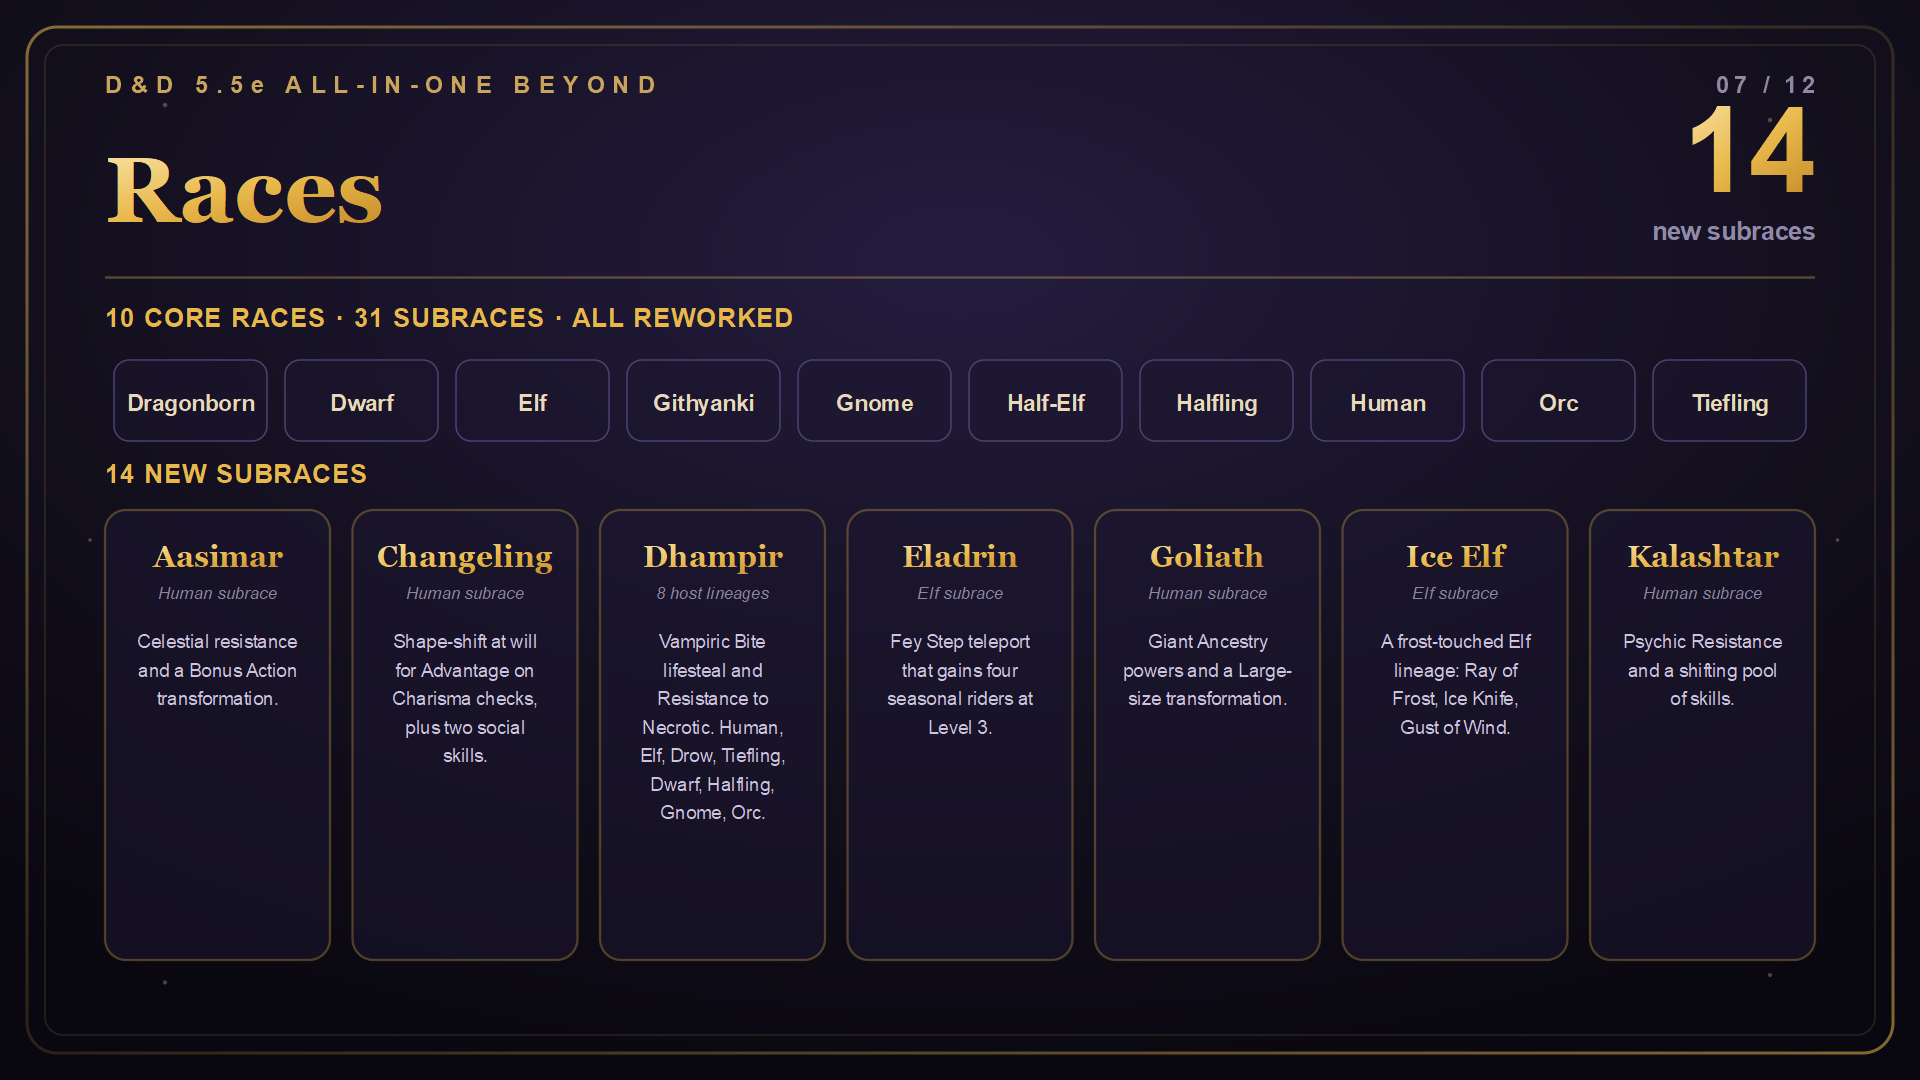
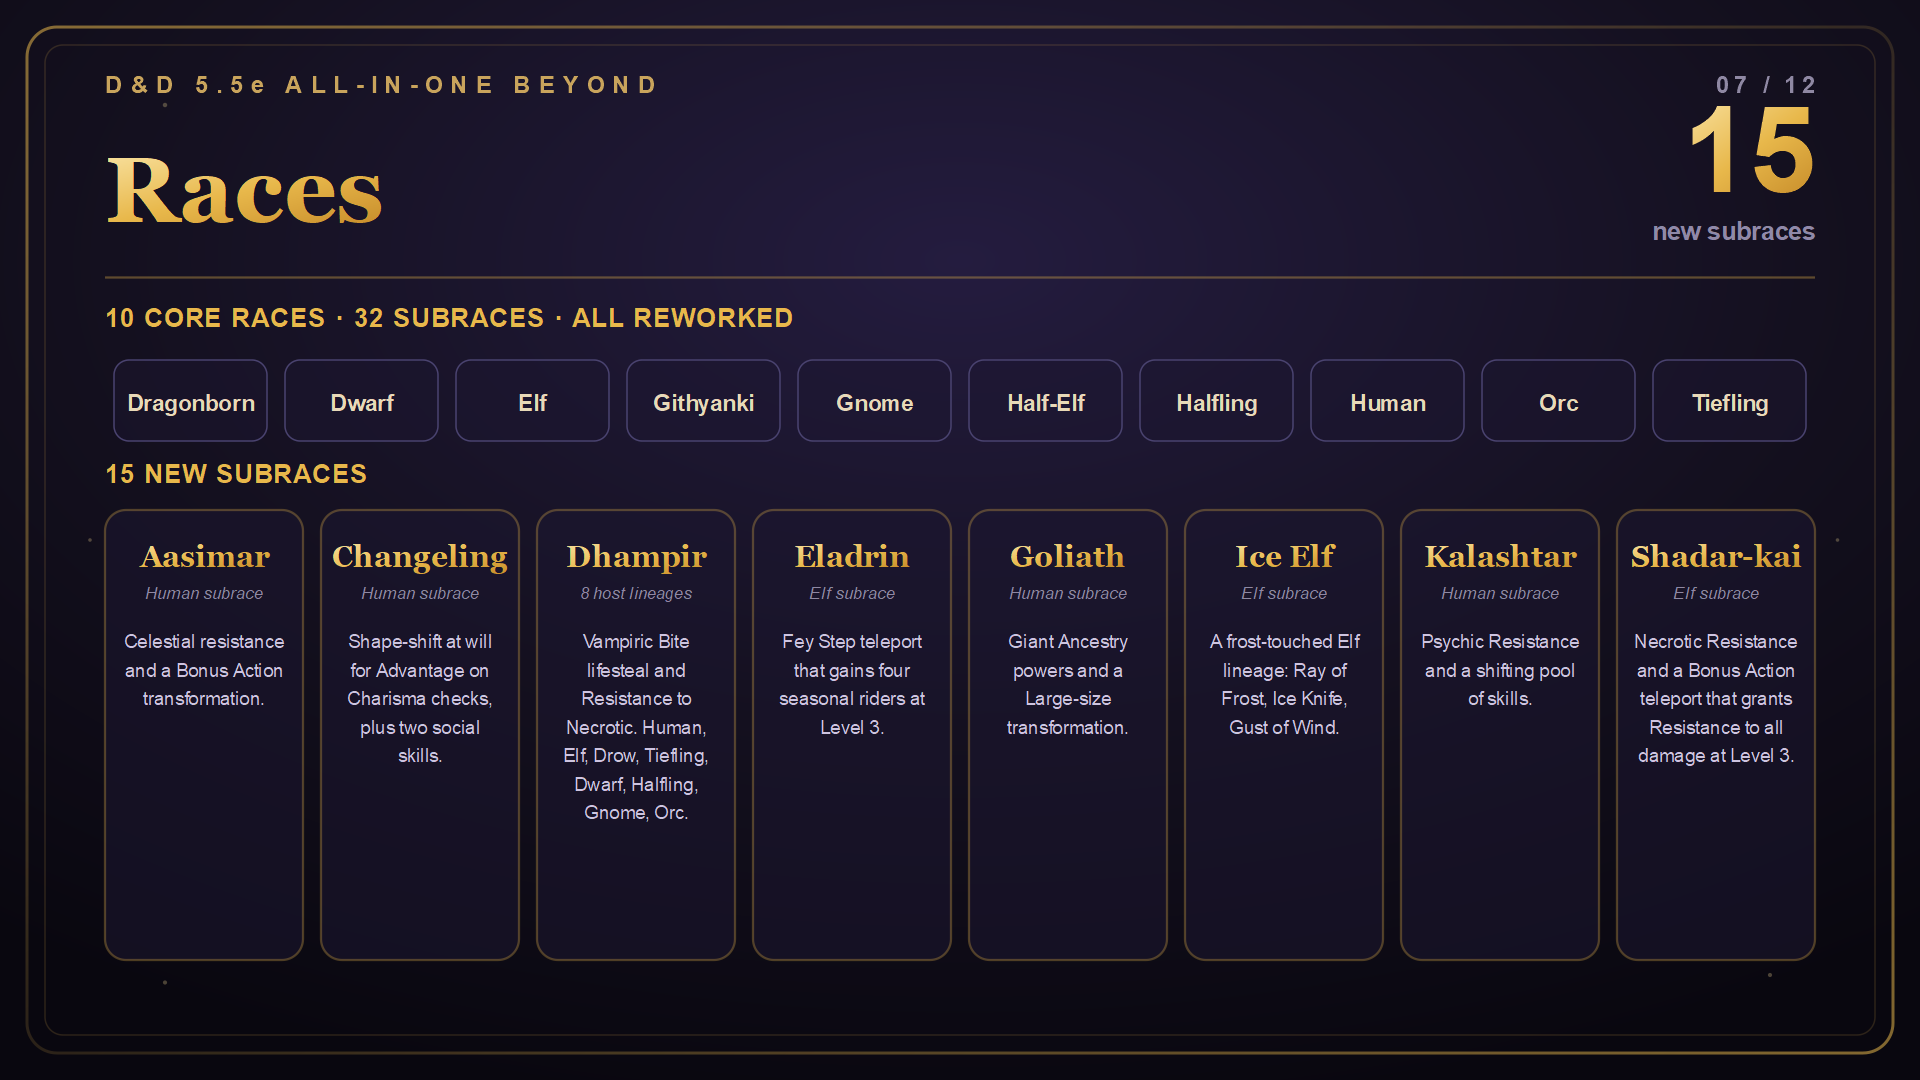
docs: list Shadar-kai in the readmes and slides
The subrace shipped without being added to the promotional material, so
the readmes still named only Eladrin and Ice Elf as Elf subrace options
and the races slide showed 14 new subraces across seven cards.

Add the Shadar-kai card, bump the totals to 15 new and 32 subraces, and
narrow the cards from 150 to 132 wide so eight fit on one row.

Changed region(s): [[0.0625, 0.4583, 0.9375, 0.8861], [0.9062, 0.0917, 0.9375, 0.1833]]

diff --git a/README.md b/README.md
@@ -83,7 +83,7 @@ Archery, Blind Fighting, Defense, Dueling, Great Weapon Fighting, Interception, 
 
 See [Race](https://github.com/Yoonmoonsik/bg3dnd/wiki/Races).
 
-- Aasimar, Changeling, Goliath, and Kalashtar are available as Human subrace options. Eladrin and Ice Elf are available as Elf subrace options. Dhampir can be taken as a Human, Elf, Drow, Tiefling, Dwarf, Halfling, Gnome, or Orc subrace.
+- Aasimar, Changeling, Goliath, and Kalashtar are available as Human subrace options. Eladrin, Ice Elf, and Shadar-kai are available as Elf subrace options. Dhampir can be taken as a Human, Elf, Drow, Tiefling, Dwarf, Halfling, Gnome, or Orc subrace.
 - Dragonborn, Dwarf, Elf, Githyanki, Gnome, Half Elf, Halfling, Human, Orc, and Tiefling are supported.
 - Several species include ancestry or lineage options, including Dragonborn Draconic Ancestry, Elf and Half Elf sub-lineages, Goliath Giant Ancestry, and Tiefling legacy options.
 
